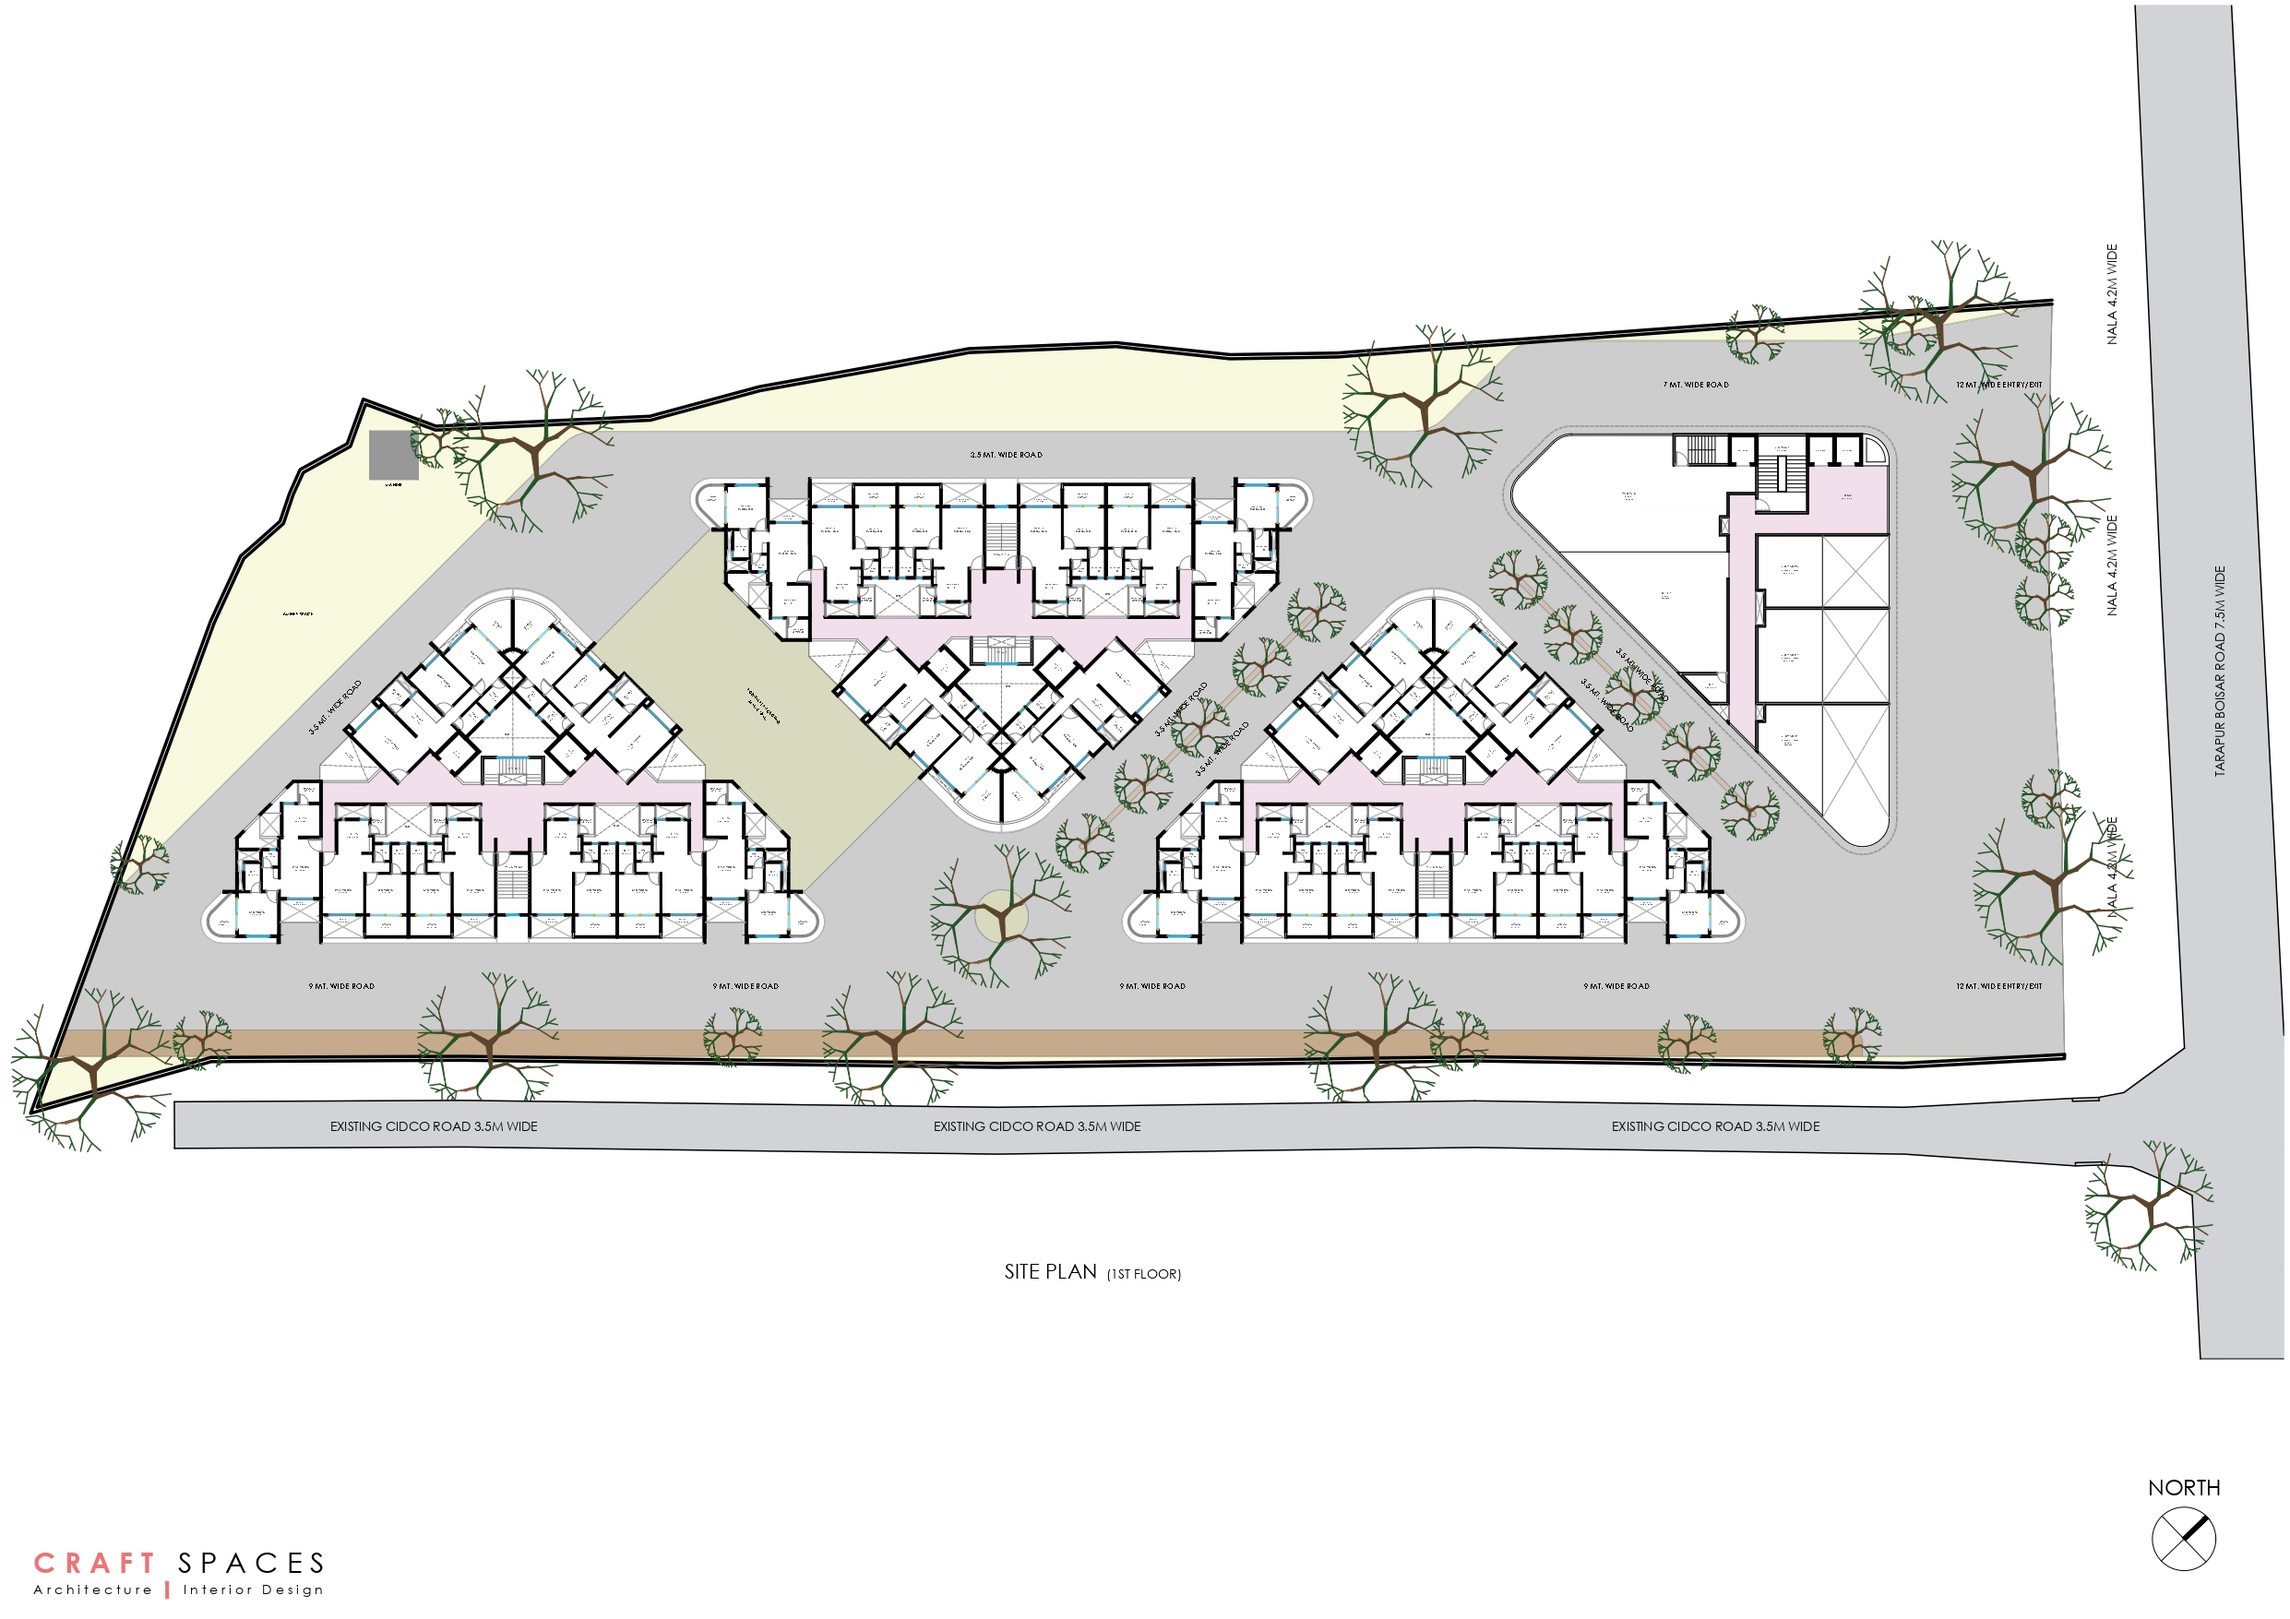
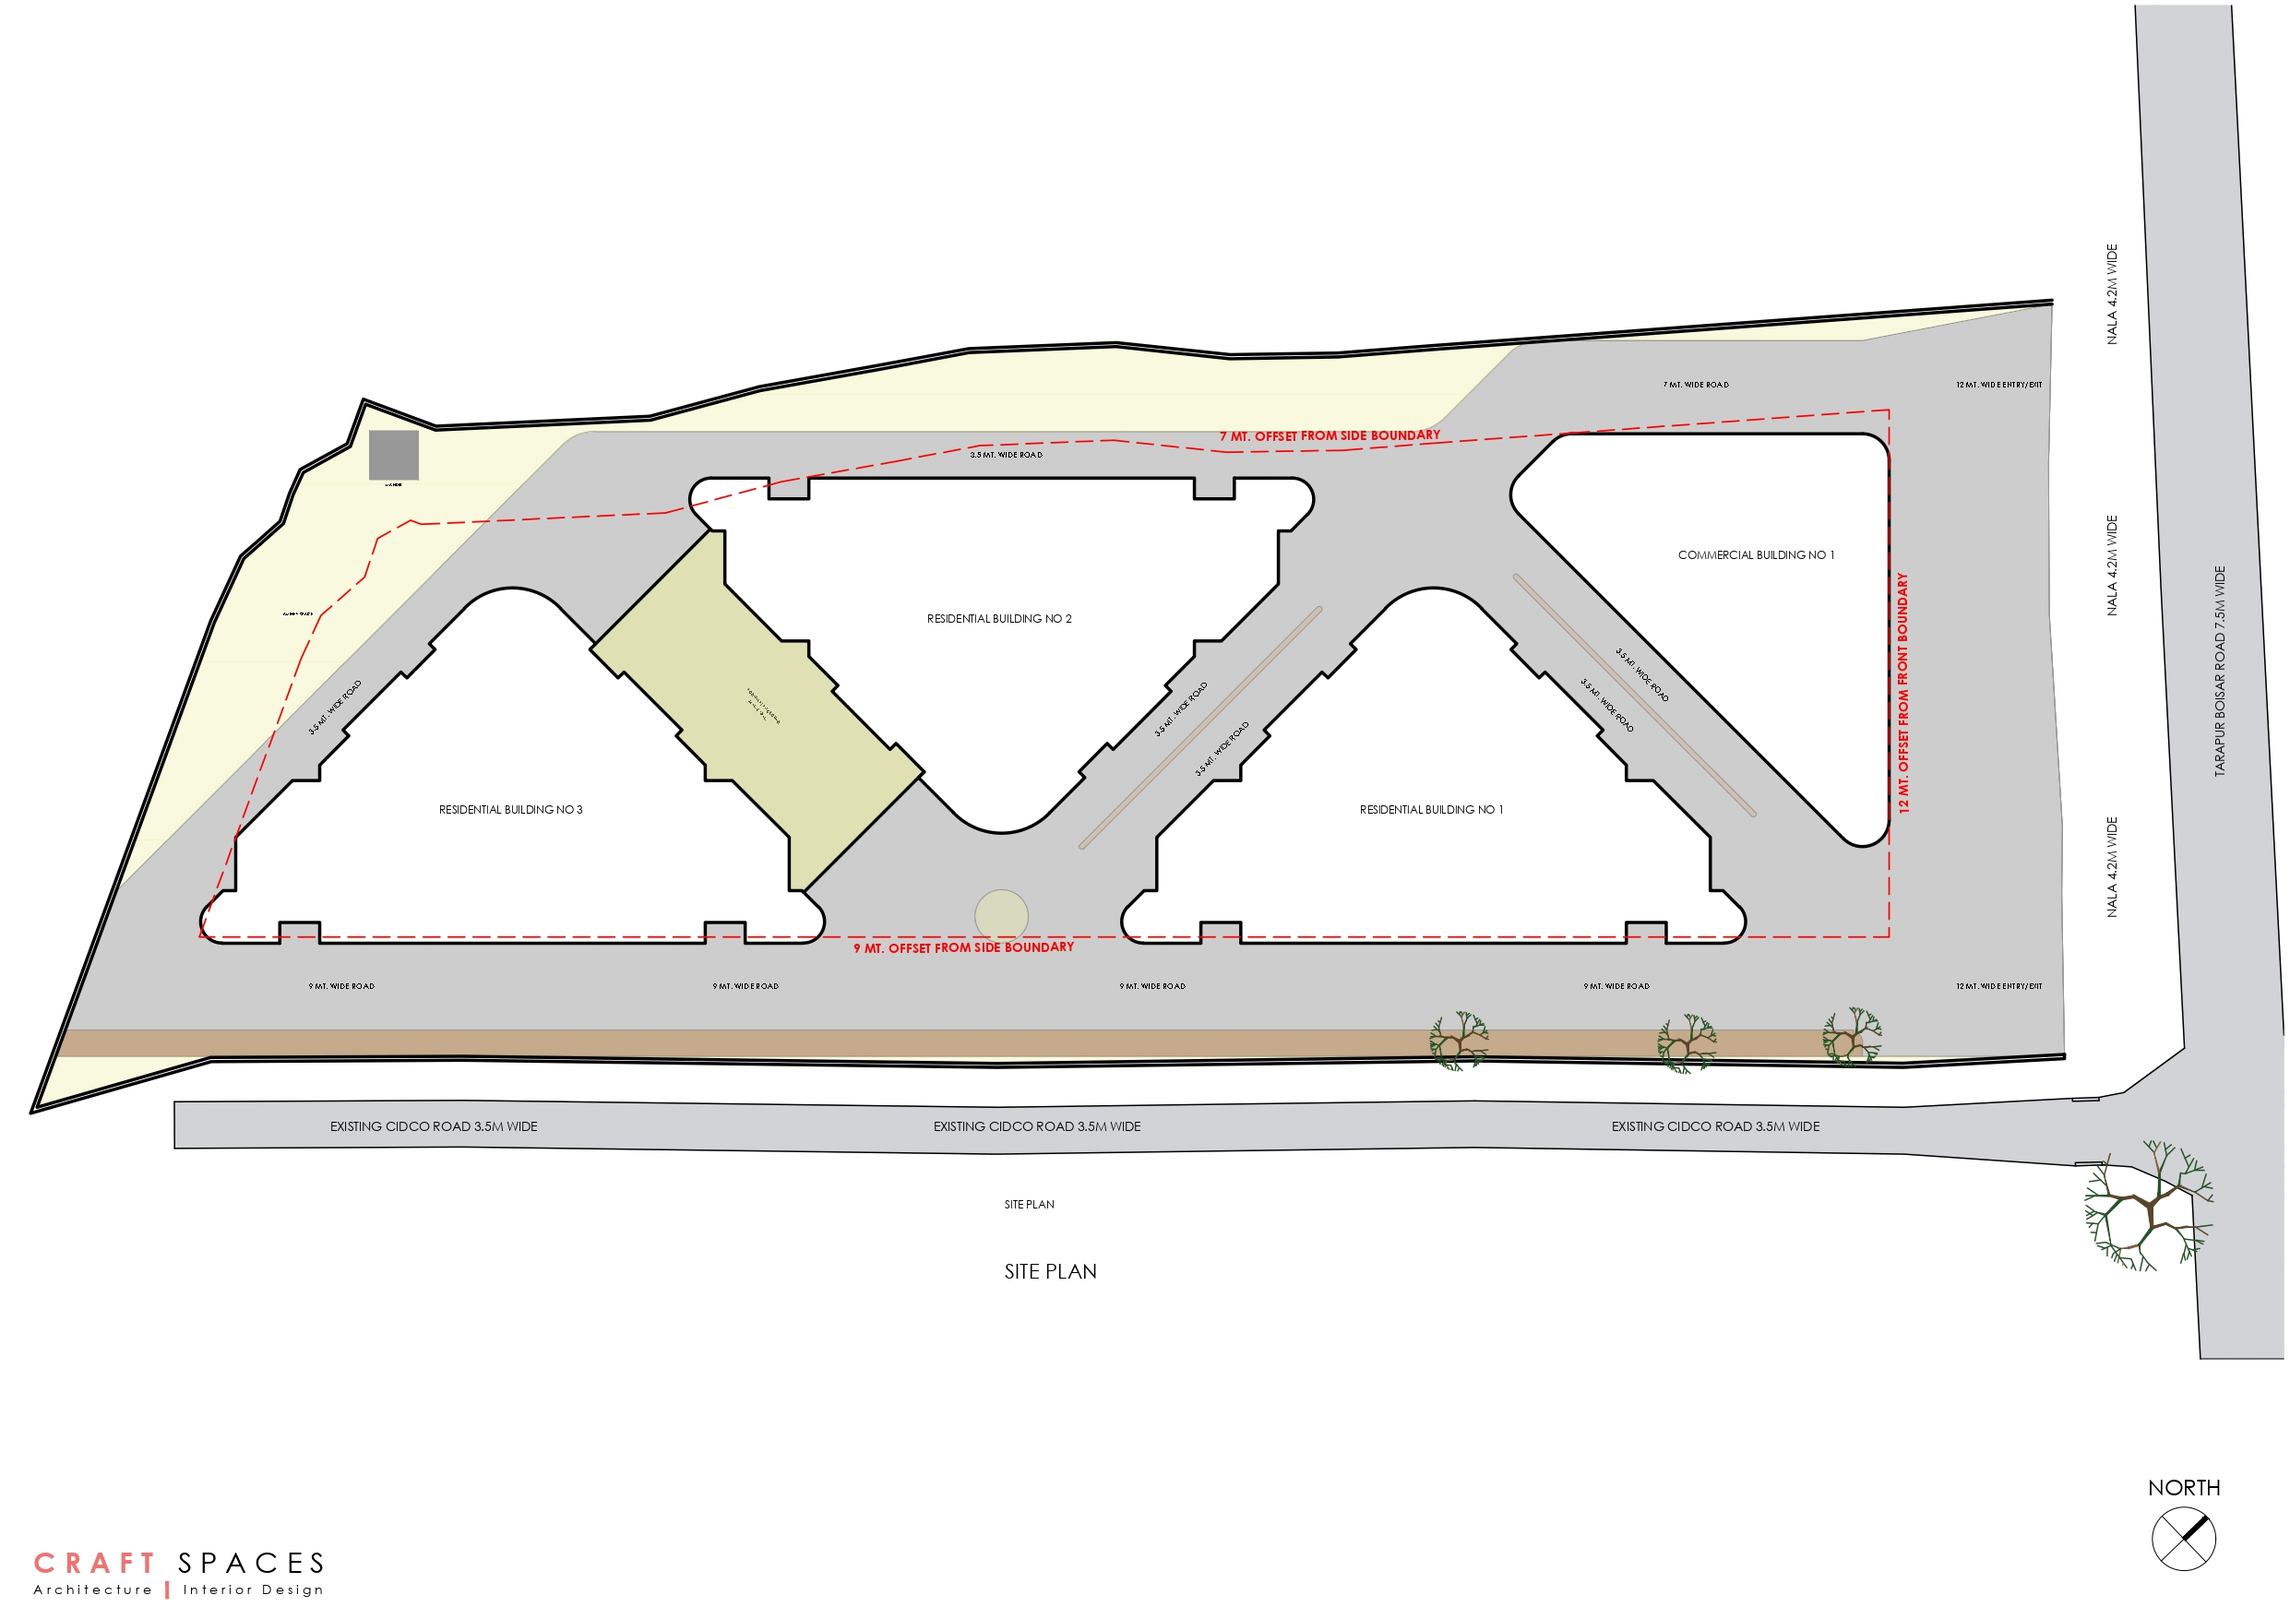
contact mail and architecture details updated

diff --git a/src/constants/Theme.ts b/src/constants/Theme.ts
@@ -139,16 +139,9 @@ import tataF8002 from '@/assets/projects/industrial/22_TATA-F8/002.jpg';
 
 // ###### OTHER PROJECTS IMPORTS ###### //
 // ## 07 VECAPS
-import VECAPS01 from '@/assets/projects/VECAPS/01.jpg';
-import VECAPS02 from '@/assets/projects/VECAPS/02.jpg';
-import VECAPS03 from '@/assets/projects/VECAPS/03.jpg';
-
-
-
-
-
-
-
+// import VECAPS01 from '@/assets/projects/VECAPS/01.jpg';
+// import VECAPS02 from '@/assets/projects/VECAPS/02.jpg';
+// import VECAPS03 from '@/assets/projects/VECAPS/03.jpg';
 
 export const projects = [
   {
@@ -158,7 +151,7 @@ export const projects = [
     mainImage: ankur001,
     icon: ankurIcon,
     previewImage: ankur002,
-    description: "A modern field house built to blend with its natural surroundings, focusing on minimalism and sustainability.",
+    description: "A modern bungalow where luxury meets functional living. Thoughtfully integrated with nature to enhance interior comfort.",
     category: "Architecture",
     subCategory: "Residential",
     images: [ankur001, ankur002, ankur003, ankur004, ankur005, ankur006, ankur007, ankur008, ankur009, ankur012, ankur013, ankur014]
@@ -170,7 +163,7 @@ export const projects = [
     mainImage: dilip001,
     icon: dilipIcon,
     previewImage: dilip003,
-    description: "A modern field house built to blend with its natural surroundings, focusing on minimalism and sustainability.",
+    description: "A climate-responsive design using local materials and traditional methods. Sustainably rooted in regional culture and environment.",
     category: "Architecture",
     subCategory: "Residential",
     images: [dilip001, dilip002, dilip003, dilip004, dilip005, dilip006]
@@ -182,7 +175,7 @@ export const projects = [
     mainImage: manjushree001,
     icon: manjushreeIcon,
     previewImage: manjushree010,
-    description: "Inspired by traditional Japanese architecture, this adobe home integrates contemporary design with classic simplicity.",
+    description: "A serene retreat nestled within Darjeeling's natural landscape. Designed for relaxation, reflection, and local charm.",
     category: "Architecture",
     subCategory: "Hospitality",
     images: [manjushree001, manjushree002, manjushree003, manjushree004, manjushree005, manjushree006, manjushree007, manjushree008, manjushree009, manjushree010, manjushree011, manjushree012, manjushree013, manjushree014, manjushree015]
@@ -194,7 +187,7 @@ export const projects = [
     mainImage: RH14001,
     icon: RH14Icon,
     previewImage: RH14002,
-    description: "A modern field house built to blend with its natural surroundings, focusing on minimalism and sustainability.",
+    description: "Eco-friendly homes designed to minimize environmental impact. Well-planned spaces with natural light and ventilation.",
     category: "Architecture",
     subCategory: "Residential",
     images: [RH14001, RH14002, RH14003, RH14004, RH14005, RH14006, RH14007, RH14008, RH14009, RH14010]
@@ -206,7 +199,7 @@ export const projects = [
     mainImage: tvm001,
     icon: tvmIcon,
     previewImage: tvm010,
-    description: "Inspired by traditional Japanese architecture, this adobe home integrates contemporary design with classic simplicity.",
+    description: "A secure yet open institutional space with experiential design. Dynamic forms create engaging and interactive environments.",
     category: "Architecture",
     subCategory: "Institutional",
     images: [tvm001, tvm002, tvm003, tvm004, tvm005, tvm006, tvm007, tvm008, tvm009, tvm010, tvm011, tvm012]
@@ -220,21 +213,21 @@ export const projects = [
     previewImage: E46004,
     description: "Designed to maximize ventilation while maintaining visual interest, the home represents a solution to counteract monotony.",
     category: "Industrial Design",
-    subCategory: "textile",
+    subCategory: "Textile",
     images: [E46001, E46002, E46003, E46004, E46005, E46006, E46007, E46008, E46009]
   },
-  {
-    id: 7,
-    title: "VECAP",
-    subtitle: "Industrial Design",
-    mainImage: VECAPS01,
-    icon: VECAPS02,
-    previewImage: VECAPS03,
-    description: "Designed to maximize ventilation while maintaining visual interest, the home represents a solution to counteract monotony.",
-    category: "Industrial Design",
-    subCategory: "pharma",
-    images: [VECAPS01, VECAPS02, VECAPS03]
-  },
+  // {
+  //   id: 7,
+  //   title: "VECAP",
+  //   subtitle: "Industrial Design",
+  //   mainImage: VECAPS01,
+  //   icon: VECAPS02,
+  //   previewImage: VECAPS03,
+  //   description: "Designed to maximize ventilation while maintaining visual interest, the home represents a solution to counteract monotony.",
+  //   category: "Industrial Design",
+  //   subCategory: "Pharma",
+  //   images: [VECAPS01, VECAPS02, VECAPS03]
+  // },
   {
     id: 8,
     title: "CALYX",
@@ -244,7 +237,7 @@ export const projects = [
     previewImage: calyx001,
     description: "Designed to maximize ventilation while maintaining visual interest, the home represents a solution to counteract monotony.",
     category: "Industrial Design",
-    subCategory: "pharma",
+    subCategory: "Pharma",
     images: [calyx001, calyx002]
   },
   {
@@ -254,9 +247,9 @@ export const projects = [
     mainImage: primma001,
     icon: primmaIcon,
     previewImage: primma003,
-    description: "Designed to maximize ventilation while maintaining visual interest, the home represents a solution to counteract monotony.",
+    description: "A modern hotel defined by exposed brick architecture. Acoustic façades add texture, character, and charm.",
     category: "Architecture",
-    subCategory: "pharma",
+    subCategory: "Hospitality",
     images: [primma001, primma002, primma003, primma004]
   },
   {
@@ -266,9 +259,9 @@ export const projects = [
     mainImage: cidco001,
     icon: cidcoIcon,
     previewImage: cidco003,
-    description: "Designed to maximize ventilation while maintaining visual interest, the home represents a solution to counteract monotony.",
+    description: "Triangular planning creates dynamic forms and accentuated spaces. Balconies and terraces enhance everyday living.",
     category: "Architecture",
-    subCategory: "pharma",
+    subCategory: "Residential",
     images: [cidco001, cidco002, cidco003, cidco004, cidco005, cidco006, cidco007]
   },
   {
@@ -278,9 +271,9 @@ export const projects = [
     mainImage: waves001,
     icon: wavesIcon,
     previewImage: waves003,
-    description: "Designed to maximize ventilation while maintaining visual interest, the home represents a solution to counteract monotony.",
+    description: "Coastal-inspired row houses with wave-like forms. Designed for privacy, community, and visual harmony.",
     category: "Architecture",
-    subCategory: "pharma",
+    subCategory: "Residential",
     images: [waves001, waves002, waves003, waves004, waves005, waves006]
   },
   {
@@ -292,7 +285,7 @@ export const projects = [
     previewImage: arihant001,
     description: "Designed to maximize ventilation while maintaining visual interest, the home represents a solution to counteract monotony.",
     category: "Industrial Design",
-    subCategory: "pharma",
+    subCategory: "Chemical",
     images: [arihant001, arihant002]
   },
   {
@@ -304,7 +297,7 @@ export const projects = [
     previewImage: camlin001,
     description: "Designed to maximize ventilation while maintaining visual interest, the home represents a solution to counteract monotony.",
     category: "Industrial Design",
-    subCategory: "pharma",
+    subCategory: "Chemical",
     images: [camlin001, camlin002]
   },
   {
@@ -316,7 +309,7 @@ export const projects = [
     previewImage: e71001,
     description: "Designed to maximize ventilation while maintaining visual interest, the home represents a solution to counteract monotony.",
     category: "Industrial Design",
-    subCategory: "pharma",
+    subCategory: "Others",
     images: [e71001, e71002]
   },
   {
@@ -328,7 +321,7 @@ export const projects = [
     previewImage: jsw001,
     description: "Designed to maximize ventilation while maintaining visual interest, the home represents a solution to counteract monotony.",
     category: "Industrial Design",
-    subCategory: "pharma",
+    subCategory: "Steel",
     images: [jsw001, jsw002]
   },
   {
@@ -340,7 +333,7 @@ export const projects = [
     previewImage: nimesh001,
     description: "Designed to maximize ventilation while maintaining visual interest, the home represents a solution to counteract monotony.",
     category: "Industrial Design",
-    subCategory: "pharma",
+    subCategory: "Engineering",
     images: [nimesh001, nimesh002]
   },
   {
@@ -352,7 +345,7 @@ export const projects = [
     previewImage: s11001,
     description: "Designed to maximize ventilation while maintaining visual interest, the home represents a solution to counteract monotony.",
     category: "Industrial Design",
-    subCategory: "pharma",
+    subCategory: "Pharma",
     images: [s11001, s11002]
   },
   {
@@ -364,7 +357,7 @@ export const projects = [
     previewImage: s38001,
     description: "Designed to maximize ventilation while maintaining visual interest, the home represents a solution to counteract monotony.",
     category: "Industrial Design",
-    subCategory: "pharma",
+    subCategory: "Pharma",
     images: [s38001, s38002]
   },
   {
@@ -376,7 +369,7 @@ export const projects = [
     previewImage: s76001,
     description: "Designed to maximize ventilation while maintaining visual interest, the home represents a solution to counteract monotony.",
     category: "Industrial Design",
-    subCategory: "pharma",
+    subCategory: "Steel",
     images: [s76001, s76002]
   },
   {
@@ -388,7 +381,7 @@ export const projects = [
     previewImage: sharp001,
     description: "Designed to maximize ventilation while maintaining visual interest, the home represents a solution to counteract monotony.",
     category: "Industrial Design",
-    subCategory: "pharma",
+    subCategory: "Engineering",
     images: [sharp001, sharp002]
   },
   {
@@ -400,7 +393,7 @@ export const projects = [
     previewImage: tataA6001,
     description: "Designed to maximize ventilation while maintaining visual interest, the home represents a solution to counteract monotony.",
     category: "Industrial Design",
-    subCategory: "pharma",
+    subCategory: "Steel",
     images: [tataA6001, tataA6002]
   },
   {
@@ -412,7 +405,7 @@ export const projects = [
     previewImage: tataF8001,
     description: "Designed to maximize ventilation while maintaining visual interest, the home represents a solution to counteract monotony.",
     category: "Industrial Design",
-    subCategory: "pharma",
+    subCategory: "Steel",
     images: [tataF8001, tataF8002]
   }
 ];

diff --git a/src/app/contact/page.tsx b/src/app/contact/page.tsx
@@ -26,6 +26,8 @@ export default function ContactUs() {
   const handleSubmit = async (e: React.FormEvent<HTMLFormElement>) => {
     e.preventDefault();
 
+    // const sendMail = "hr@sarvagyasofttech.com";
+    const sendMail = "admin@craftspaces.in";
     const subject = encodeURIComponent("New Project Inquiry from Website");
 
     const body = encodeURIComponent(
@@ -37,7 +39,7 @@ export default function ContactUs() {
     );
 
     // ✅ Gmail compose link
-    const gmailLink = `https://mail.google.com/mail/?view=cm&to=hr@sarvagyasofttech.com&su=${subject}&body=${body}`;
+    const gmailLink = `https://mail.google.com/mail/?view=cm&to=${sendMail}&su=${subject}&body=${body}`;
 
     window.open(gmailLink, '_blank');
   };

diff --git a/src/components/TopNav.tsx b/src/components/TopNav.tsx
@@ -77,7 +77,7 @@ const TopNav: FC<TopNavProps> = (props) => {
             </div>
             {isMenuOpen2 && (
               <div className="absolute top-full left-0 mt-2 w-56 bg-white rounded-md shadow-lg py-2 z-50">
-                {["steel", "chemical", "pharma", "textile", "food"].map(
+                {["steel", "chemical", "pharma", "textile", "food", "others"].map(
                   (category) => (
                     <Link key={category} href={`/industrial?category=${category}`} className="block px-4 py-1 text-gray-600 hover:bg-gray-100 hover:text-red-500" onClick={handleLinkClick} >
                       {category.charAt(0).toUpperCase() + category.slice(1)}
